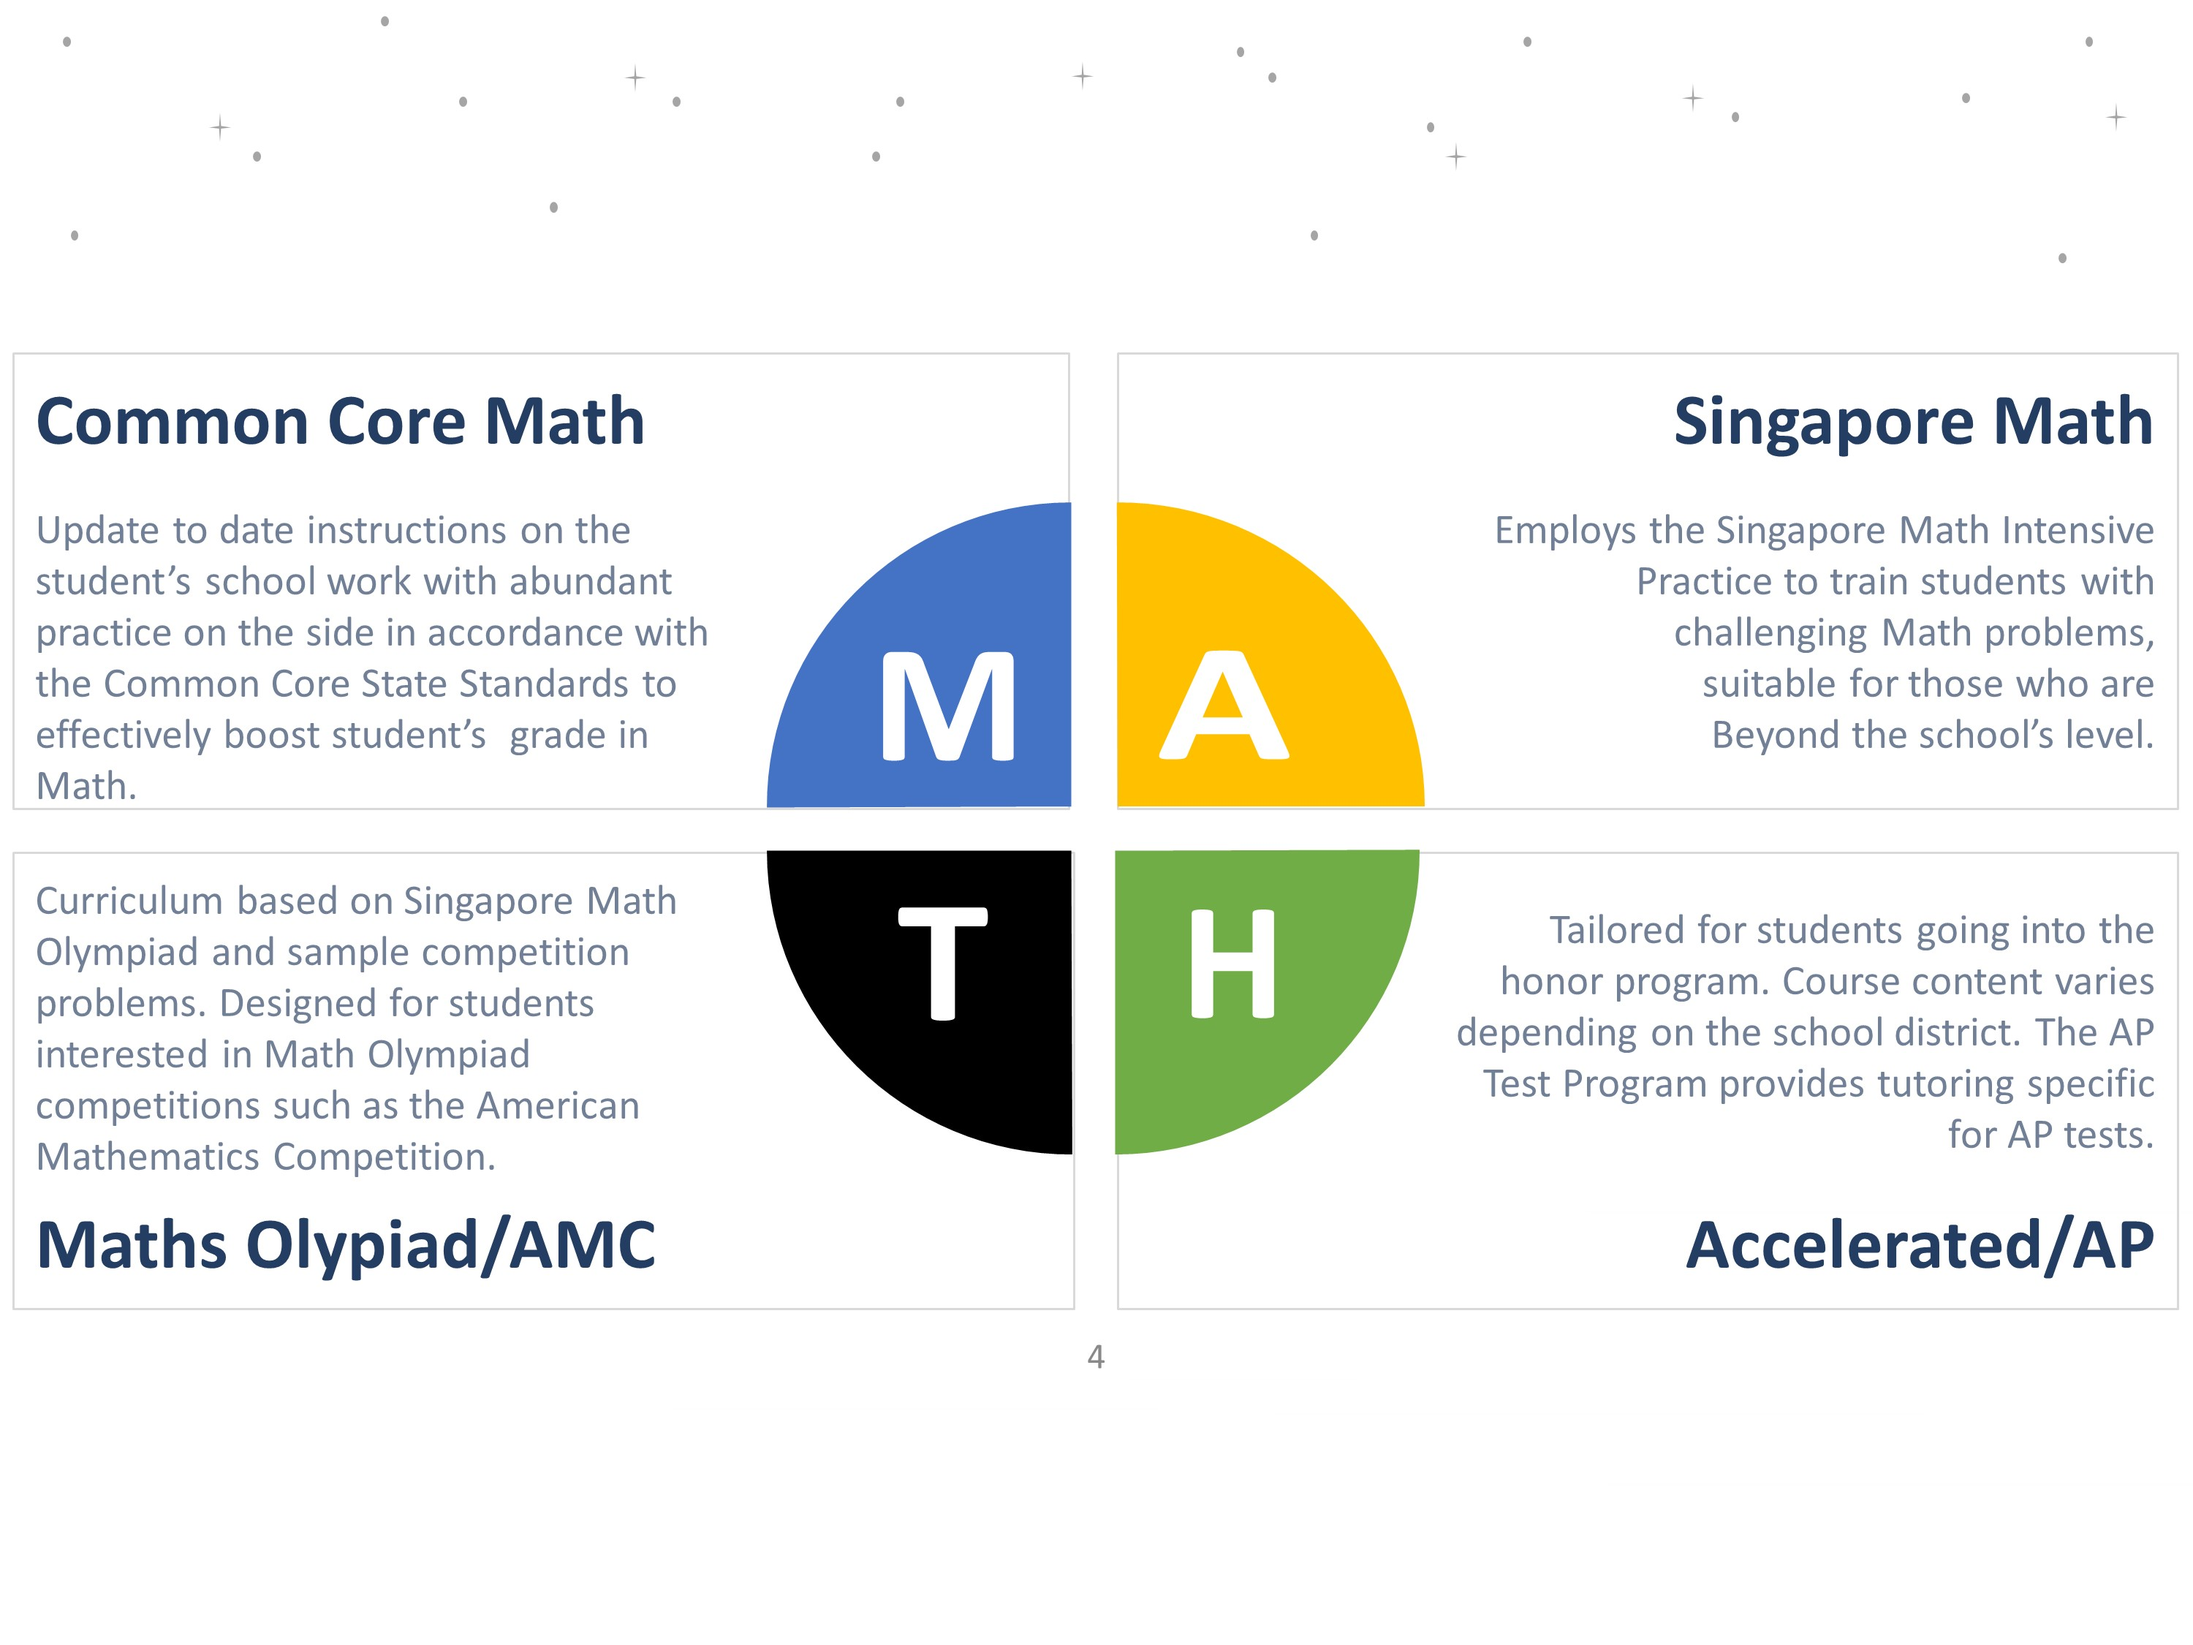
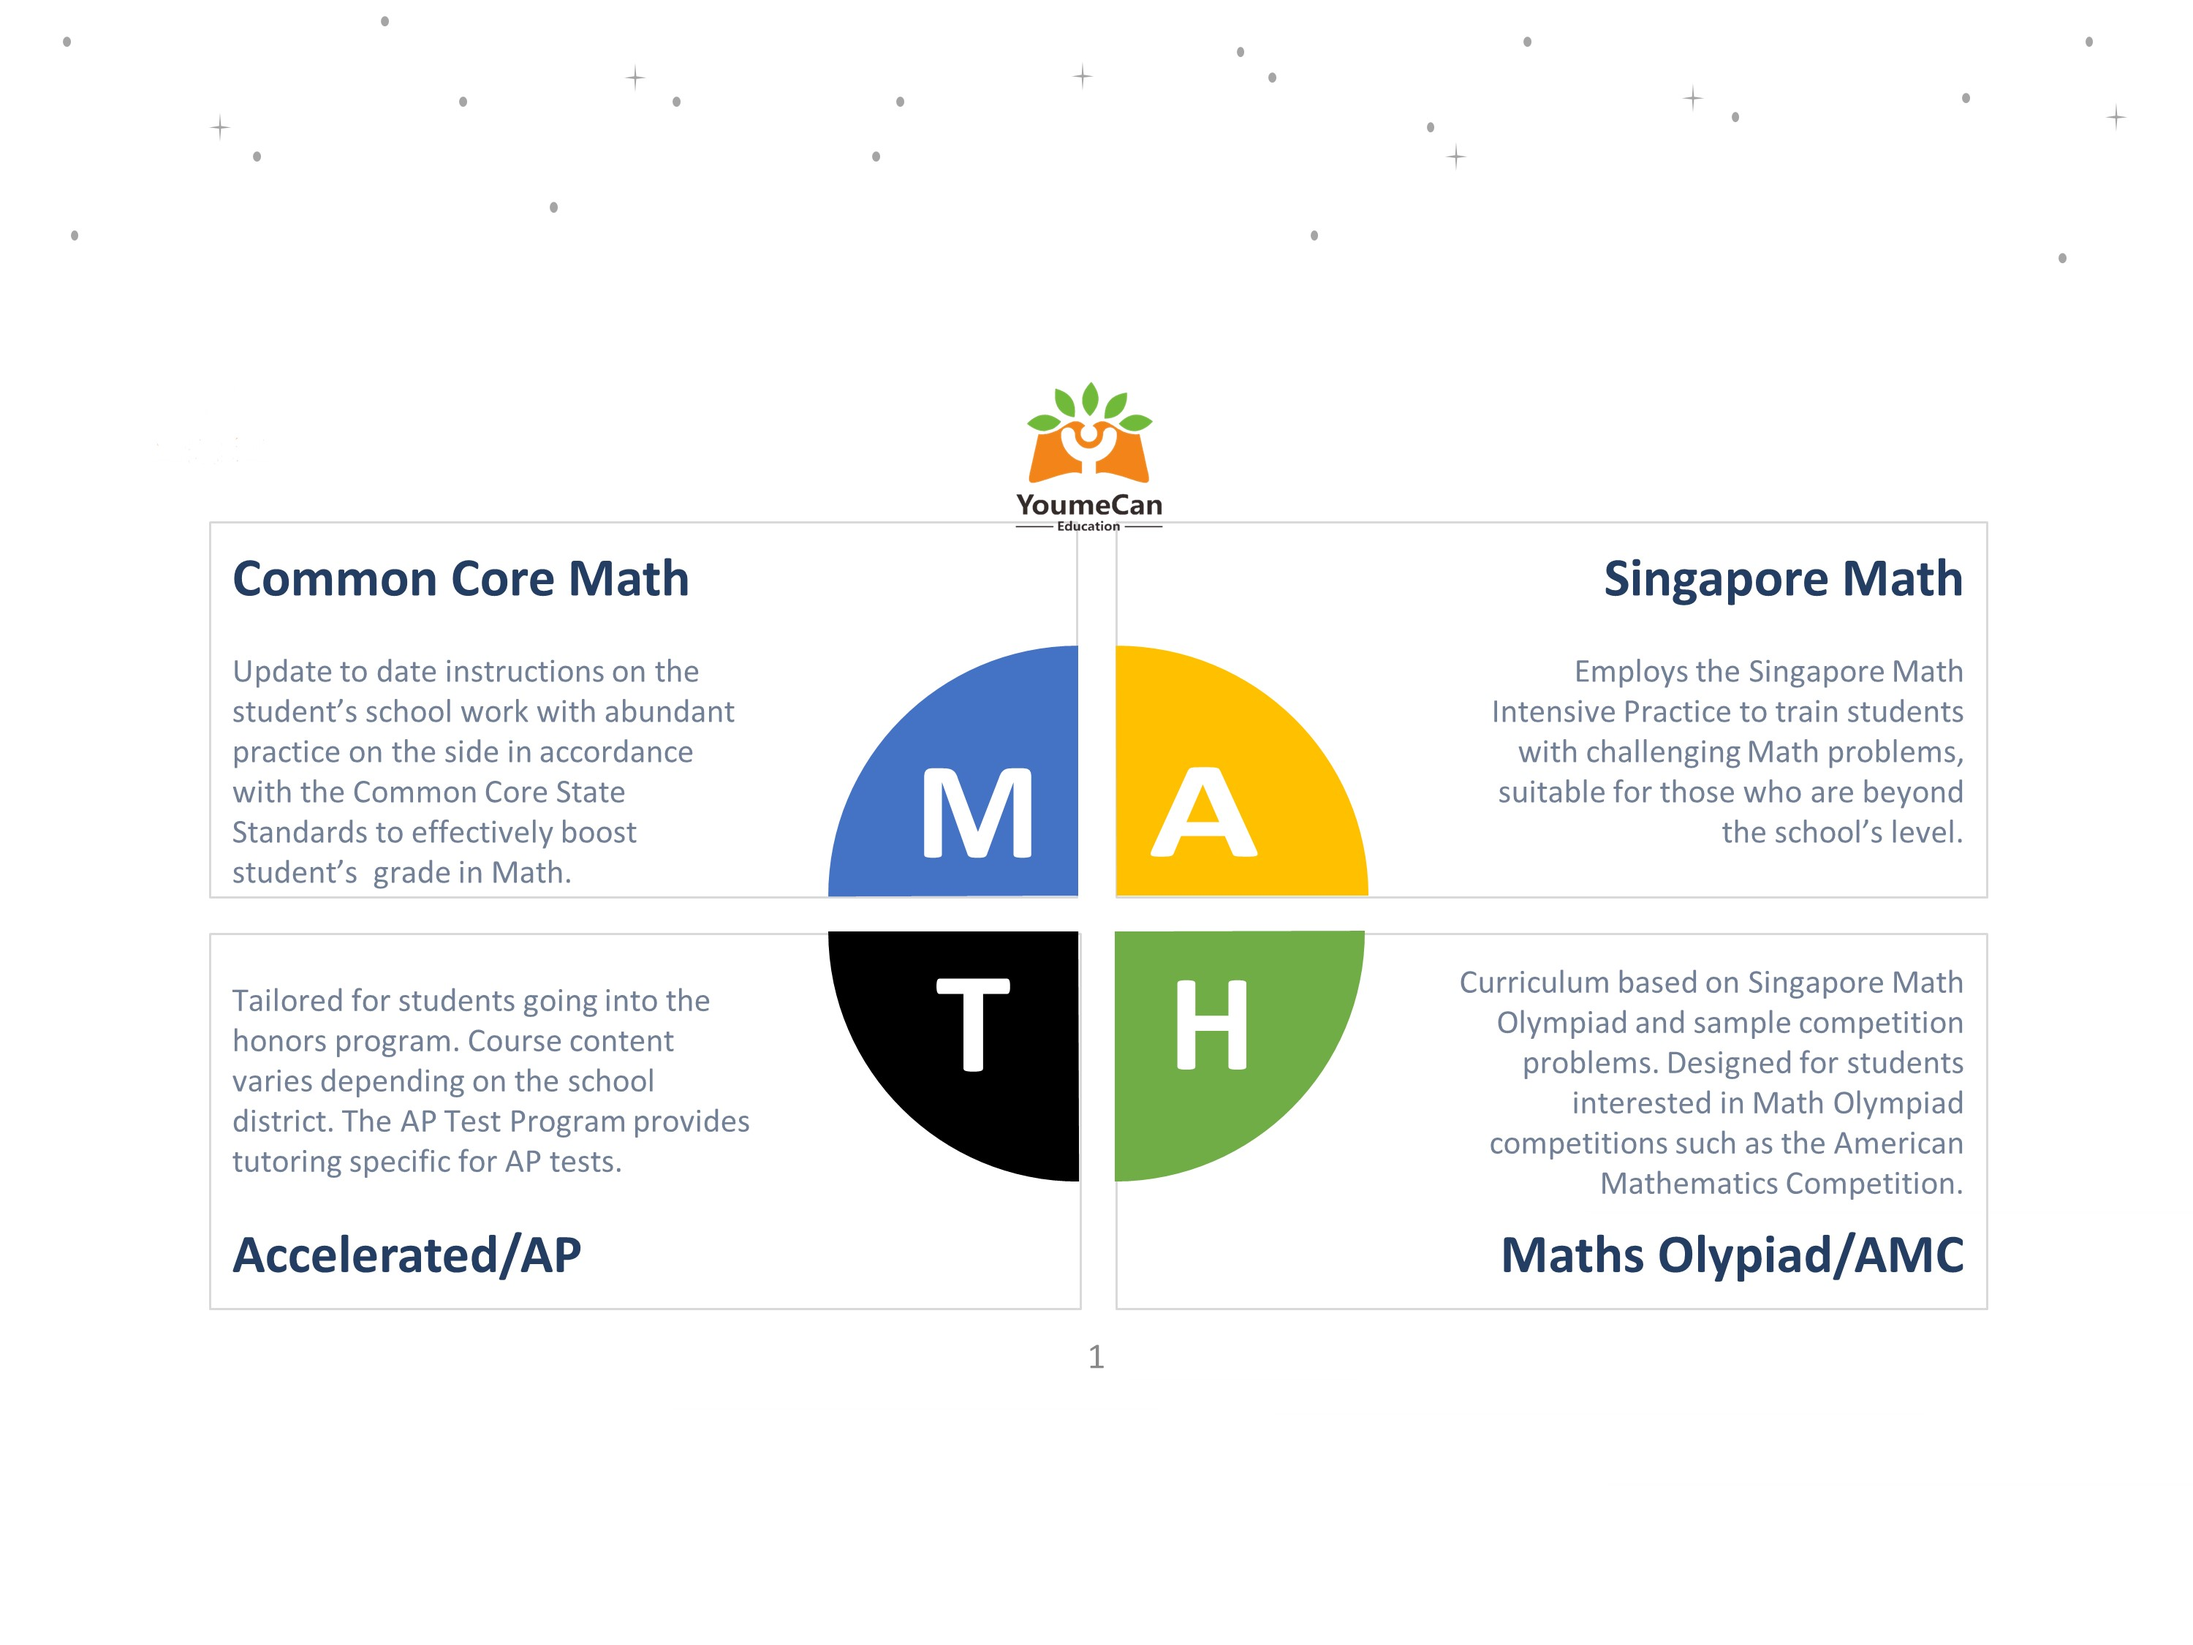
updated pictures for tabs

diff --git a/src/pages/College-Prep.js b/src/pages/College-Prep.js
@@ -5,17 +5,18 @@ import tw from "twin.macro";
 import styled from "styled-components";
 import Header from "components/headers/light.js";
 import Footer from "components/footers/MiniCenteredFooter.js";
-import Programs from "components/features/TwoColWithTwoHorizontalFeaturesAndButton"
-
-import { ReactComponent as SvgDotPattern } from "images/dot-pattern.svg";
-import { ReactComponent as BriefcaseIcon } from "feather-icons/dist/icons/briefcase.svg";
-import { ReactComponent as MoneyIcon } from "feather-icons/dist/icons/dollar-sign.svg";
+import pic from "images/collegeprep.jpeg"
 
 const subjects = []
 
 
 const HeaderRow = tw.div`flex justify-between items-center flex-col xl:flex-row px-12`;
 const Header1 = tw.h2`text-4xl sm:text-5xl font-black tracking-wide text-center`;
+const Flyer = tw.div`flex flex-col md:flex-row max-w-screen-xl mx-auto items-center`;
+const Image = styled.img`
+  ${tw`px-72`}
+`;
+
 const TabsControl = tw.div`flex flex-wrap bg-gray-200 px-2 py-2 rounded leading-none mt-12 xl:mt-0`;
 const TabControl = styled.div`
   ${tw`cursor-pointer px-6 py-3 mt-2 sm:mt-0 sm:mr-2 last:mr-0 text-gray-600 font-medium rounded-sm transition duration-300 text-sm sm:text-base w-1/2 sm:w-auto text-center`}
@@ -57,6 +58,9 @@ export default () => {
         </HeaderRow>
         <Intro> College planning for 7-12th graders starting from self discovery to college application, all to prepare students to brace a future of individual fulfillment with confidence. Service is provided at every step of the application process, including class planning, GPA management, letters of recommendation, essay writing and interview guiding.</Intro>
 
+        <Flyer>
+              <Image src={pic} alt="flyer1" />
+        </Flyer>
          <br></br><br></br><br></br>
         <Footer/>
       </AnimationRevealPage>

diff --git a/src/pages/Pre-test.js b/src/pages/Pre-test.js
@@ -5,11 +5,7 @@ import tw from "twin.macro";
 import styled from "styled-components";
 import Header from "components/headers/light.js";
 import Footer from "components/footers/MiniCenteredFooter.js";
-import Programs from "components/features/TwoColWithTwoHorizontalFeaturesAndButton"
-
-import { ReactComponent as SvgDotPattern } from "images/dot-pattern.svg";
-import { ReactComponent as BriefcaseIcon } from "feather-icons/dist/icons/briefcase.svg";
-import { ReactComponent as MoneyIcon } from "feather-icons/dist/icons/dollar-sign.svg";
+import pic from "images/testprep.jpeg"
 
 const subjects = []
 
@@ -26,6 +22,10 @@ const TabControl = styled.div`
   }
 `;
 const Intro = tw.p`mt-4 text-sm md:text-base lg:text-lg mx-12 my-8 font-medium leading-relaxed text-secondary-100 `;
+const Flyer = tw.div`flex flex-col md:flex-row max-w-screen-xl mx-auto items-center`;
+const Image = styled.img`
+  ${tw`px-72`}
+`;
 
 export default () => {
     const [activeTab, setActiveTab] = useState(subjects[0]);
@@ -57,6 +57,9 @@ export default () => {
         </HeaderRow>
         <Intro> Test-Prep aims to help individuals prepare for all kinds of standardized testing such as PSAT, SAT, ACT, AP(Advanced Placement), IB (International Baccalaureate). Available in private tutoring only.</Intro>
 
+        <Flyer>
+              <Image src={pic} alt="flyer1" />
+        </Flyer>
          <br></br><br></br><br></br>
         <Footer/>
       </AnimationRevealPage>

diff --git a/src/pages/Academic.js b/src/pages/Academic.js
@@ -21,6 +21,7 @@ import common from "images/common.png"
 import ap from "images/ap.png"
 import olympiad from "images/olympiad.png"
 import sing from "images/sing.png"
+import privatepic from "images/private2.jpeg"
 
 const subjects = ["English", "Math", "Private Tutoring"]
 const Header1 = tw.h2`text-4xl sm:text-5xl font-black tracking-wide text-center`;
@@ -75,15 +76,15 @@ const math = [
     ],
     [
         {
-            Icon: olympiad,
-            title: "Maths Olympiad/AMC",
-            iconContainerCss: tw`bg-teal-300 text-teal-800`
-        },
-        {
             Icon: ap,
             title: "Accelerated/\nAdvanced Placement",
             iconContainerCss: tw`bg-teal-300 text-teal-800`
-        }
+        },
+        {
+            Icon: olympiad,
+            title: "Maths Olympiad/AMC",
+            iconContainerCss: tw`bg-teal-300 text-teal-800`
+        } 
     ]
 ]
 
@@ -206,7 +207,7 @@ export default () => {
                 <span tw="text-primary-400">Private Tutoring for All Subjects</span>
                 </>
             )}
-            imageSrc=""
+            imageSrc={privatepic}
             button = "learn more"
             buttonUrl = "/privatetutor"
             description="All subject private tutoring for k-12th. 1on1 and 1on2 setting based on the needs of the students. Personalized and customized courses. Class schedules are flexible, can start at any time."

diff --git a/src/pages/Demo.js b/src/pages/Demo.js
@@ -38,7 +38,7 @@ export default () => {
       />
        <MainFeature1
         subheading={<Subheading>Ms. Morgan</Subheading>}
-        heading={ <Heading> Math  <Subheading tw="text-primary-700 text-xl">Clip from Class</Subheading> </Heading>}
+        heading={ <Heading> English  <Subheading tw="text-primary-700 text-xl">Clip from Class</Subheading> </Heading>}
         description="This is Ms. Morgan's 7th English class which mainly focuses on Literature Appreciation & Analysis. The class clip discusses reasons against the death penalty which the students have been debating about in class."
         buttonRounded={false}
         primaryButtonText="Sign Up"
@@ -46,7 +46,7 @@ export default () => {
       />
       <MainFeature1
         subheading={<Subheading>Ms. Johanna</Subheading>}
-        heading={ <Heading> Math  <Subheading tw="text-primary-700 text-xl">Clip from Class</Subheading> </Heading>}
+        heading={ <Heading> English  <Subheading tw="text-primary-700 text-xl">Clip from Class</Subheading> </Heading>}
         description="This is Ms. Johanna's 3rd grade English class, mainly focusing on reading comprehension and writing. The class is to learn about Drama and use role-playing to strengthen reading comprehension."
         buttonRounded={false}
         textOnLeft={false}

diff --git a/src/pages/Private-Tutoring.js b/src/pages/Private-Tutoring.js
@@ -6,10 +6,7 @@ import styled from "styled-components";
 import Header from "components/headers/light.js";
 import Footer from "components/footers/MiniCenteredFooter.js";
 import Programs from "components/features/TwoColWithTwoHorizontalFeaturesAndButton"
-
-import { ReactComponent as SvgDotPattern } from "images/dot-pattern.svg";
-import { ReactComponent as BriefcaseIcon } from "feather-icons/dist/icons/briefcase.svg";
-import { ReactComponent as MoneyIcon } from "feather-icons/dist/icons/dollar-sign.svg";
+import pic1 from "images/private1.jpeg"
 
 const subjects = ["English & Math", "History & Social Studies", "Biology, Chemistry & Physics", "Languages"]
 
@@ -66,7 +63,7 @@ export default () => {
                     </>
                 )}
                 features = {[[]]}
-                imageSrc="" 
+                imageSrc={pic1} 
                 description="English and Math tutoring for k-12th students at different levels. Tailored course content based on student’s results of the evaluation test, ensures that both academic and individual needs are satisfied alongside aid to school work. "                        
             />
         </Element>
